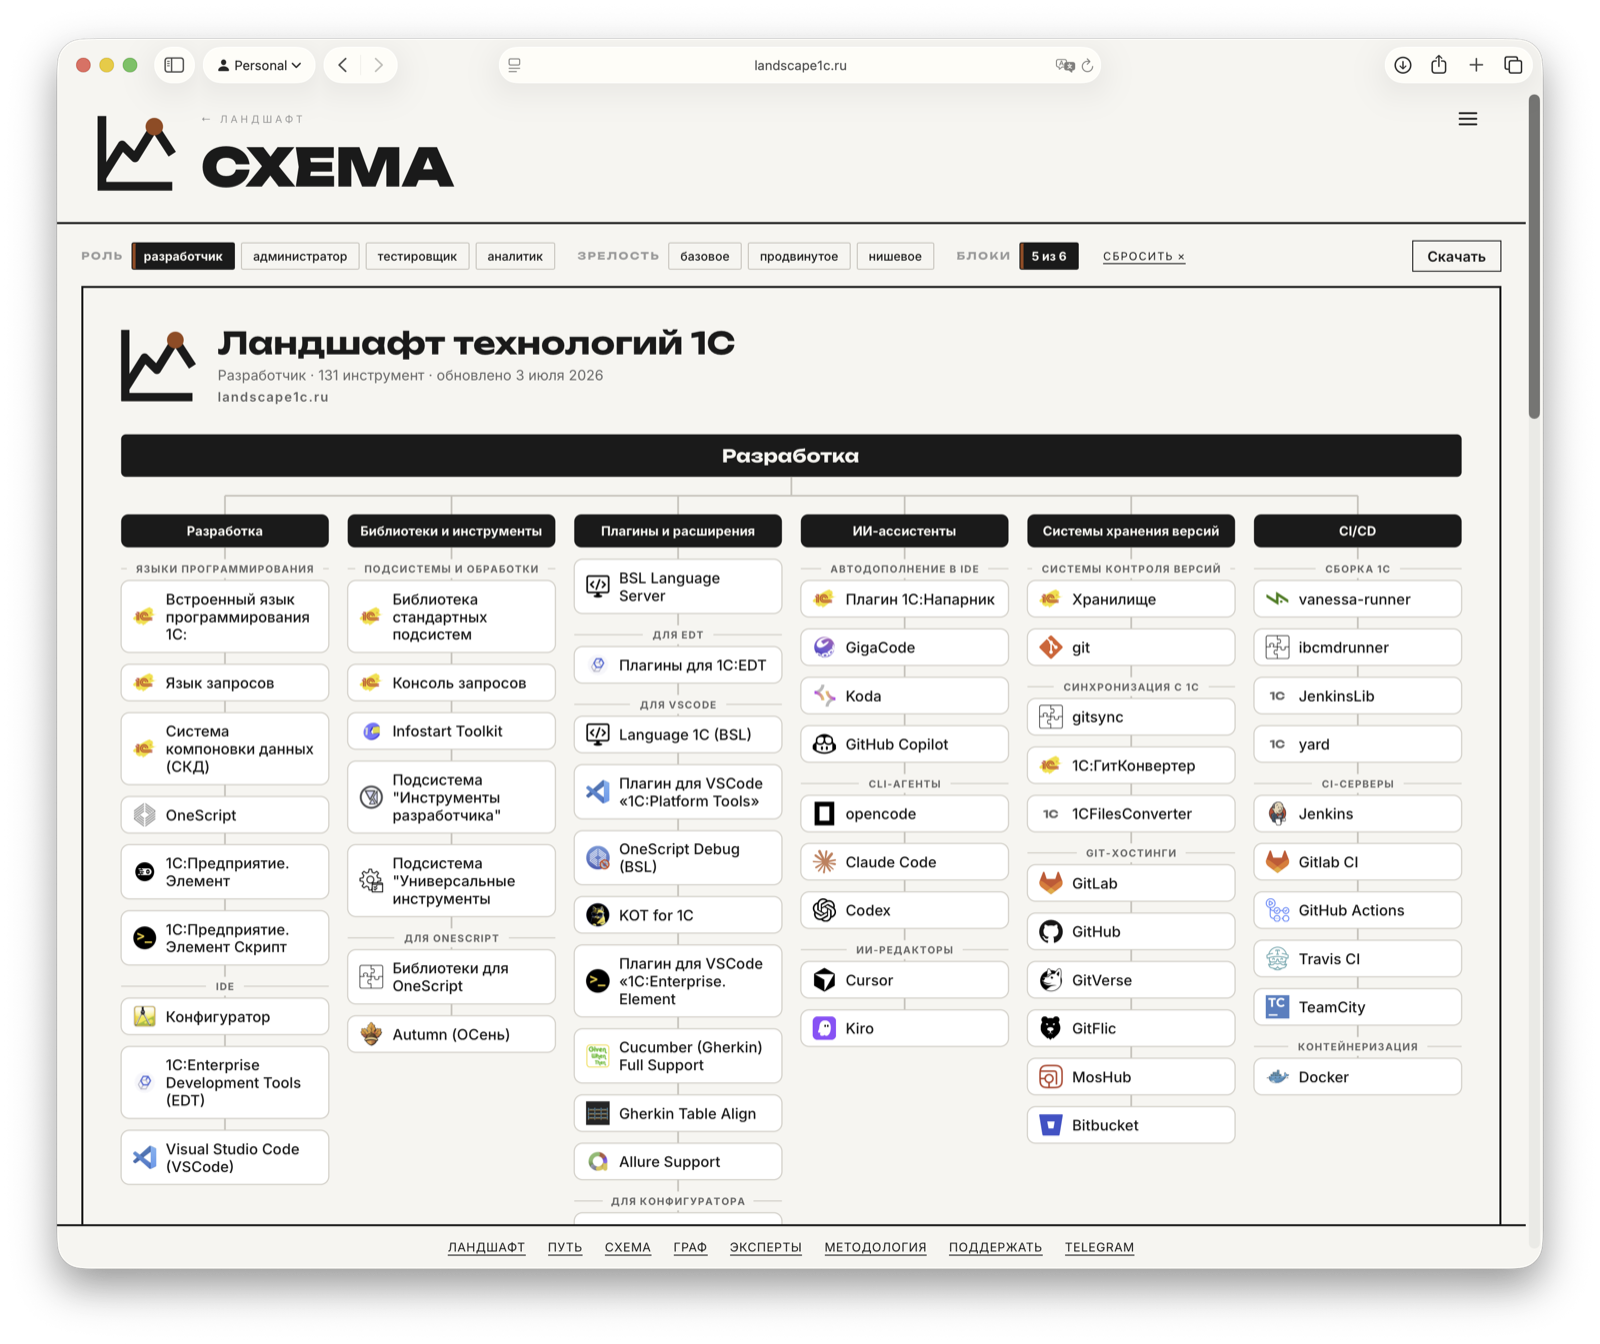
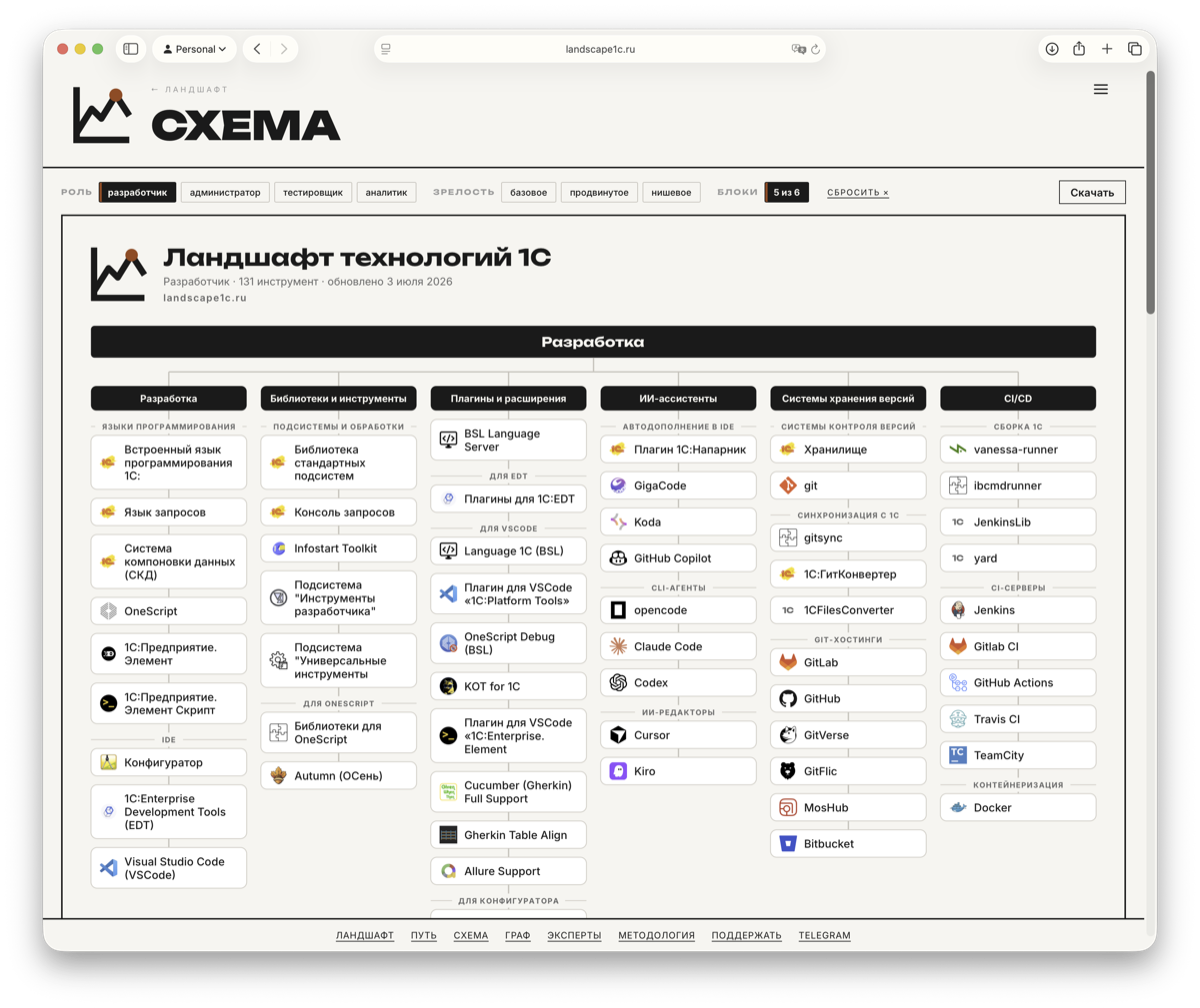
README: бейджи for-the-badge, скриншоты ужаты под лимит рендера GitHub
Темная тема, схема и граф не отображались в README — прокси картинок
GitHub не тянул файлы тяжелее ~600 КБ. Пересжаты до 1200px (граф — в
JPEG), все теперь < 510 КБ. Бейджи переведены на квадратный стиль
for-the-badge (воркфлоу — через shields.io, метки по-русски).

diff --git a/README.md b/README.md
@@ -1,9 +1,9 @@
 # Ландшафт технологий 1С
 
-[![Сайт](https://img.shields.io/website?url=https%3A%2F%2Flandscape1c.ru&label=landscape1c.ru&up_message=%D0%BE%D0%BD%D0%BB%D0%B0%D0%B9%D0%BD&down_message=%D0%BD%D0%B5%D0%B4%D0%BE%D1%81%D1%82%D1%83%D0%BF%D0%B5%D0%BD)](https://landscape1c.ru)
-[![Деплой](https://github.com/Oxotka/Landscape1C/actions/workflows/deploy.yml/badge.svg)](https://github.com/Oxotka/Landscape1C/actions/workflows/deploy.yml)
-[![Проверка данных](https://github.com/Oxotka/Landscape1C/actions/workflows/validate.yml/badge.svg)](https://github.com/Oxotka/Landscape1C/actions/workflows/validate.yml)
-[![Лицензия: MIT](https://img.shields.io/badge/лицензия-MIT-green.svg)](LICENSE)
+[![Сайт](https://img.shields.io/website?url=https%3A%2F%2Flandscape1c.ru&label=landscape1c.ru&up_message=%D0%BE%D0%BD%D0%BB%D0%B0%D0%B9%D0%BD&down_message=%D0%BD%D0%B5%D0%B4%D0%BE%D1%81%D1%82%D1%83%D0%BF%D0%B5%D0%BD&style=for-the-badge)](https://landscape1c.ru)
+[![Деплой](https://img.shields.io/github/actions/workflow/status/Oxotka/Landscape1C/deploy.yml?branch=main&style=for-the-badge&label=%D0%B4%D0%B5%D0%BF%D0%BB%D0%BE%D0%B9)](https://github.com/Oxotka/Landscape1C/actions/workflows/deploy.yml)
+[![Проверка данных](https://img.shields.io/github/actions/workflow/status/Oxotka/Landscape1C/validate.yml?branch=main&style=for-the-badge&label=%D0%BF%D1%80%D0%BE%D0%B2%D0%B5%D1%80%D0%BA%D0%B0%20%D0%B4%D0%B0%D0%BD%D0%BD%D1%8B%D1%85)](https://github.com/Oxotka/Landscape1C/actions/workflows/validate.yml)
+[![Лицензия: MIT](https://img.shields.io/badge/%D0%BB%D0%B8%D1%86%D0%B5%D0%BD%D0%B7%D0%B8%D1%8F-MIT-green?style=for-the-badge)](LICENSE)
 
 Интерактивная карта экосистемы технологий для разработчика на 1С и около 1С.
 
@@ -48,7 +48,7 @@
 
 Все инструменты и их связи «Аналоги»/«Зависимости» на одной интерактивной карте: кластеры по блокам, клик по узлу открывает карточку.
 
-<img src="docs/screenshot-graph.png" alt="Граф связей между инструментами" width="100%" />
+<img src="docs/screenshot-graph.jpg" alt="Граф связей между инструментами" width="100%" />
 
 ## Как предложить инструмент или поправить карточку
 